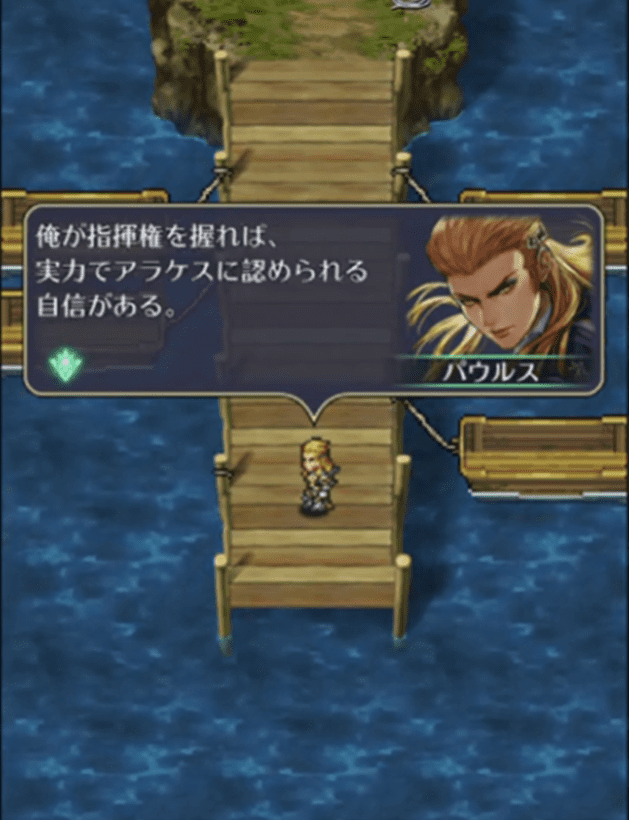
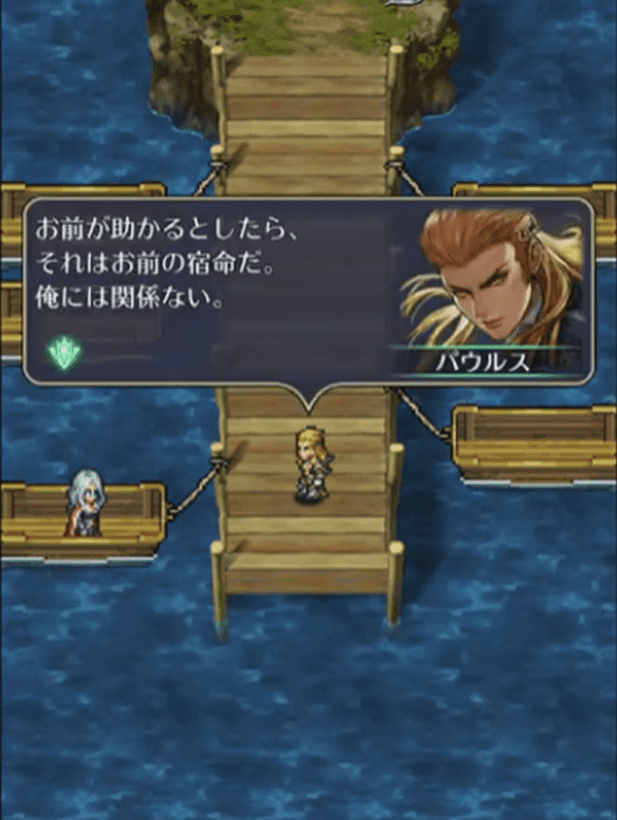
ロマサガ3の記事を指摘を受けて修正

diff --git a/contents/romasaga3/seiou/seiou.html b/contents/romasaga3/seiou/seiou.html
@@ -242,12 +242,16 @@
         <img src="../ロマサガRS/幼少期/ユーステルム4.png" width="300"/><br/>
 
         <br/>
-        ユーステルムから離れた後、結局奴隷として捕まっていたところ、結果的に<a href="#paurus">パウルス</a>に助けられる（パウルスは後の聖王三傑の一人だが、この時はアラケスの部下）。<br/>
+        ユーステルムから離れた後、結局奴隷として捕まっていたところ、結果的に<a href="#paurus">パウルス</a>に助けられた（『逃がしてもらった』と言った方が良いかも。ロマサガRSの物語を見る限り、パウルスは聖王を助けたかったわけではなさそうなので）。<br/>
+        パウルスは後の聖王三傑の一人だが、この時はアラケスの部下<br/>
         <img src="../ロマサガRS/パウルスとの出会い/パウルス1.png" width="300"/>
         <img src="../ロマサガRS/パウルスとの出会い/パウルス2.png" width="300"/>
         <img src="../ロマサガRS/パウルスとの出会い/パウルス3.png" width="300"/>
         <img src="../ロマサガRS/パウルスとの出会い/パウルス4.png" width="300"/>
-        <img src="../ロマサガRS/パウルスとの出会い/パウルス5.png" width="300"/><br/>
+        <img src="../ロマサガRS/パウルスとの出会い/パウルス5.png" width="300"/>
+        <img src="../ロマサガRS/パウルスとの出会い/パウルス6.png" width="300"/>
+        <img src="../ロマサガRS/パウルスとの出会い/パウルス7.png" width="300"/>
+        <img src="../ロマサガRS/パウルスとの出会い/パウルス8.png" width="300"/><br/>
         ※画像は抜粋しているので詳細は<a href="https://www.youtube.com/watch?v=GgiudiAOgFs&list=PLF8t5qaM5RIxEvXan6H3QwDVo_S33B3kU&index=34&t=343s" target="_blank" rel="noreferrer">リンク先の動画</a>参照。<br/>
 
         <br/>
@@ -437,17 +441,19 @@
         設定が明らかにされている聖王十二将は以下8名。残り4名は設定はおろか、名前すら明かされていません。<br/>
       </p>
 
+      <div class="slider" style="margin-left:0px;">
       <table border="1">
         <tr><th>#</th><th>名前</th><th>概要</th></tr>
-        <tr><td>1</td><td><a href="#ferdinand">フェルディナント</a></td><td>聖王三傑の1人。七星剣の使い手。</td></tr>
-        <tr><td>2</td><td><a href="#vassar">ヴァッサール</a></td><td>聖王三傑の1人。玄武術が得意。</td></tr>
-        <tr><td>3</td><td><a href="#paurus">パウルス</a></td><td>聖王三傑の1人。後のメッサーナの国王。</td></tr>
+        <tr><td>1</td><td><a href="#ferdinand">フェルディナント</a></td><td>聖王三傑の1人。初代ロアーヌ候でヒルダの夫。七星剣の使い手。</td></tr>
+        <tr><td>2</td><td><a href="#vassar">ヴァッサール</a></td><td>聖王三傑の1人。浮島バンガードの建造を主導し、<br/>フォルネウス討伐に一役買った人物。玄武術士。</td></tr>
+        <tr><td>3</td><td><a href="#paurus">パウルス</a></td><td>聖王三傑の1人。野心的な性格で、死の宿命を持つ聖王を<br/>自身の出世に利用する。後のメッサーナの国王。</td></tr>
         <tr><td>4</td><td><a href="#hiruda">ヒルダ</a></td><td>フェルディナントの妻。マスカレイドの使い手。</td></tr>
-        <tr><td>5</td><td><a href="#soap">ソープ</a></td><td>元聖王の兜の所有者。</td></tr>
-        <tr><td>6</td><td><a href="#auto_man">オトマン</a></td><td>元銀の手の所有者。</td></tr>
-        <tr><td>7</td><td><a href="#huruburait_12">フルブライト12世</a></td><td>フルブライト将軍とも呼ばれる。聖王を養子に迎え入れる。</td></tr>
+        <tr><td>5</td><td><a href="#auto_man">オトマン</a></td><td>銀の手の元所有者。<br/>ビューネイとの戦いの最中に左腕を失うが、左手に銀の手をはめて戦う。</td></tr>
+        <tr><td>6</td><td><a href="#soap">ソープ</a></td><td>聖王の兜の元所有者。<br/>フルブライト12世の旅の相方で、用心棒を務める。</td></tr>
+        <tr><td>7</td><td><a href="#huruburait_12">フルブライト12世</a></td><td>聖王を養子に迎え入れた人物。フルブライト将軍とも呼ばれる。</td></tr>
         <tr><td>8</td><td><a href="#charls">チャールズ</a></td><td>フルブライト12世の息子。戦死。</td></tr>
       </table>
+      </div>
       <br/>
 
       <br/>
@@ -497,7 +503,7 @@
         ※画像は<a href="https://gamerch.com/saga-reuniverse/entry/165745" target="_blank" rel="noreferrer">こちら</a>から抜粋<br/>
 
         <br/>
-        ヴァッサールは聖王三傑の一人で、玄武術士。魔海候フォルネウスを倒すためにバンガードを動かして海底宮に潜入し、フォルネウス撃破へと導いた人物。<br/>
+        ヴァッサールは聖王三傑の一人で、玄武術士。魔海候フォルネウスを倒すため、バンガードの建造を聖王に提言。建造したバンガードを動かして海底宮に潜入し、フォルネウス撃破へと導いた人物。<br/>
         玄武術の本場であるモウゼスは彼が起こした街だとされている。また、ゲーム中で玄武術を教えてくれる人が多いのは彼の名声によるものらしい。<br/>
         <img src="img/詩人/バンガードとヴァッサール/古い詩1.jpg" width="400"/>
         <img src="img/詩人/バンガードとヴァッサール/古い詩2.jpg" width="400"/>
@@ -526,6 +532,16 @@
         メッサーナはスタンレー、ファルスやピドナ、リブロフ辺りの地域。<br/>
         <img src="../img/map/メッサーナ/メッサーナ北.jpg" width="400"/>
         <img src="../img/map/メッサーナ/メッサーナ南.jpg" width="400"/><br/>
+
+        <br/>
+        パウルスは野心的な性格で、聖王を逃がしたのも「宿命を利用して出世するため」だったりする。<br/>
+        <img src="../ロマサガRS/パウルスとの出会い/パウルス5.png" width="300"/>
+        <img src="../ロマサガRS/パウルスとの出会い/パウルス6.png" width="300"/>
+        <img src="../ロマサガRS/パウルスとの出会い/パウルス7.png" width="300"/><br/>
+
+        <br/>
+        これは明確な描写は（おそらく）なく、管理人個人の妄想ですが、聖王の側についたのも世界平和のためとかではなく「その方が自分にとって得だから」とか考えてそうな印象。<br/>
+        実際、結果的にメッサーナ王国の国王となっており、大出世を果たしている。<br/>
 
         <br/>
         ロマサガRSのパウルスの詳細<br/>
@@ -565,7 +581,7 @@
         <img src="img/ヒルダとフェルディナント/フェルディナントと妻のヒルダ_ユーステルム.jpg" width="400"/><br/>
 
         <br/>
-        <a href="seiou_maou_ibutsu.html#masquerade">マスカレイド</a>の使い手で、モニカの先祖に当たる人物。<br/>
+        <a href="seiou_maou_ibutsu.html#masquerade">マスカレイド</a>の使い手で、モニカの祖先に当たる人物。<br/>
         <img src="img/ヒルダとフェルディナント/モニカはヒルダの祖先1.jpg" width="400"/>
         <img src="img/ヒルダとフェルディナント/モニカはヒルダの祖先2.jpg" width="400"/>
         <img src="img/ヒルダとフェルディナント/モニカはヒルダの祖先3.jpg" width="400"/><br/>

diff --git a/contents/romasaga3/world.html b/contents/romasaga3/world.html
@@ -440,6 +440,10 @@
         ゲーム中は結構いろいろなキャラクタが登場します。登場人物の関係性を相関図でまとめてみました。<br/>
         <img id="zoomImg" src="img/chars.jpg" alt="chars" style="max-width: 800px;width:100%"/><br/>
         ※図は練磨の書のキャラクター相関図を独自に加筆修正したもの<br/>
+
+        <br/>
+        魔王が象族に「呪いをかける」としているのは、ラシュクータの以下の発言を元にしています。<br/>
+        <img src="img/昔からぞう.jpg" width="500"/><br/>
       </p>
 
       <br/>
